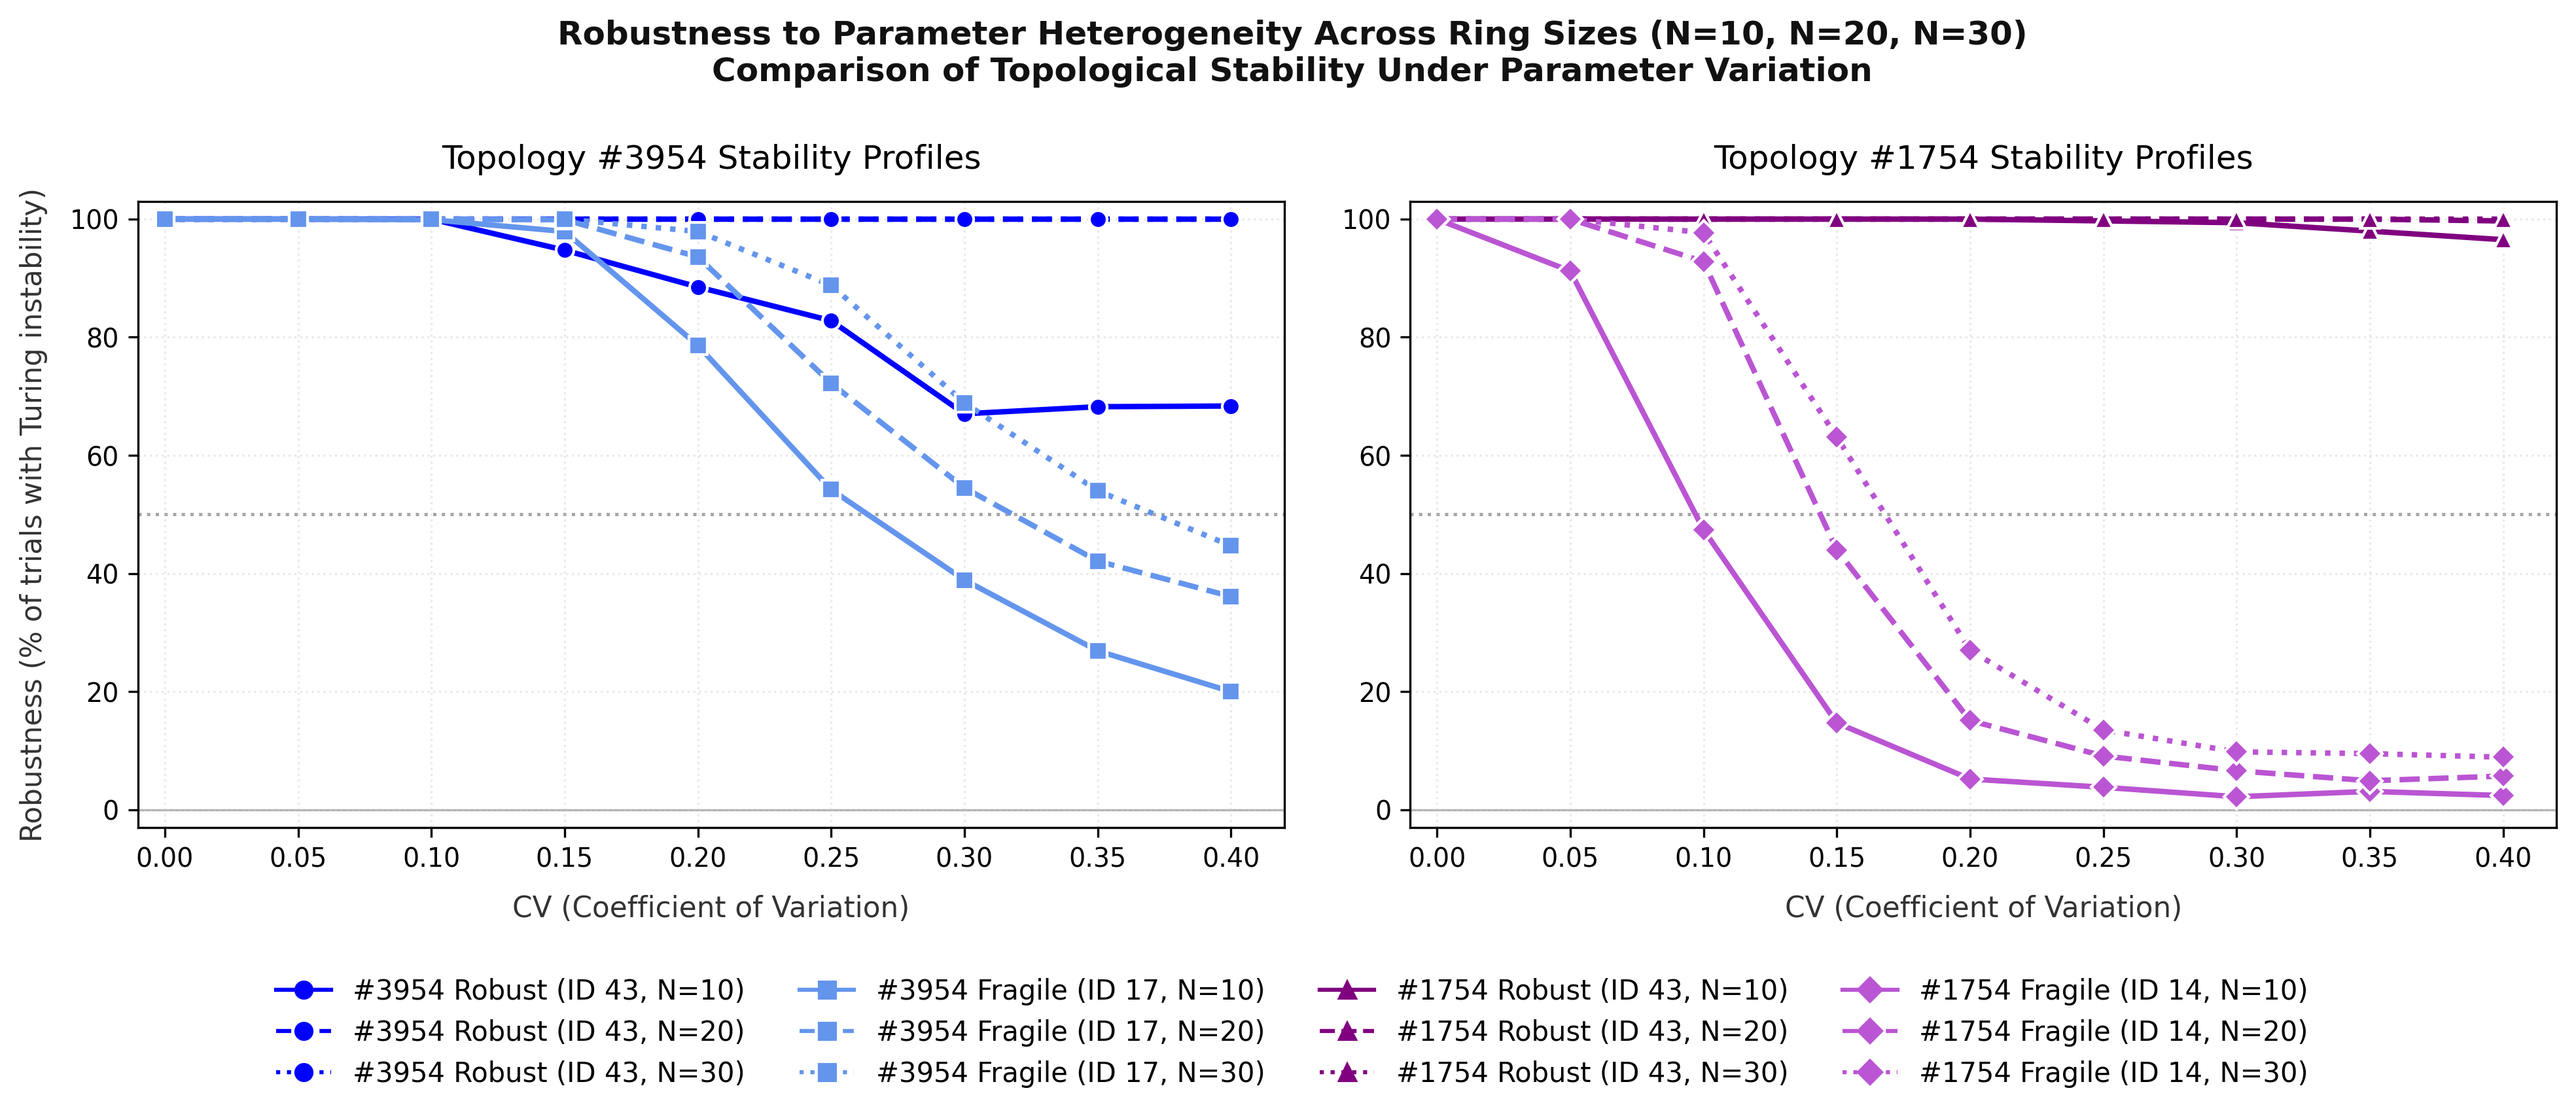
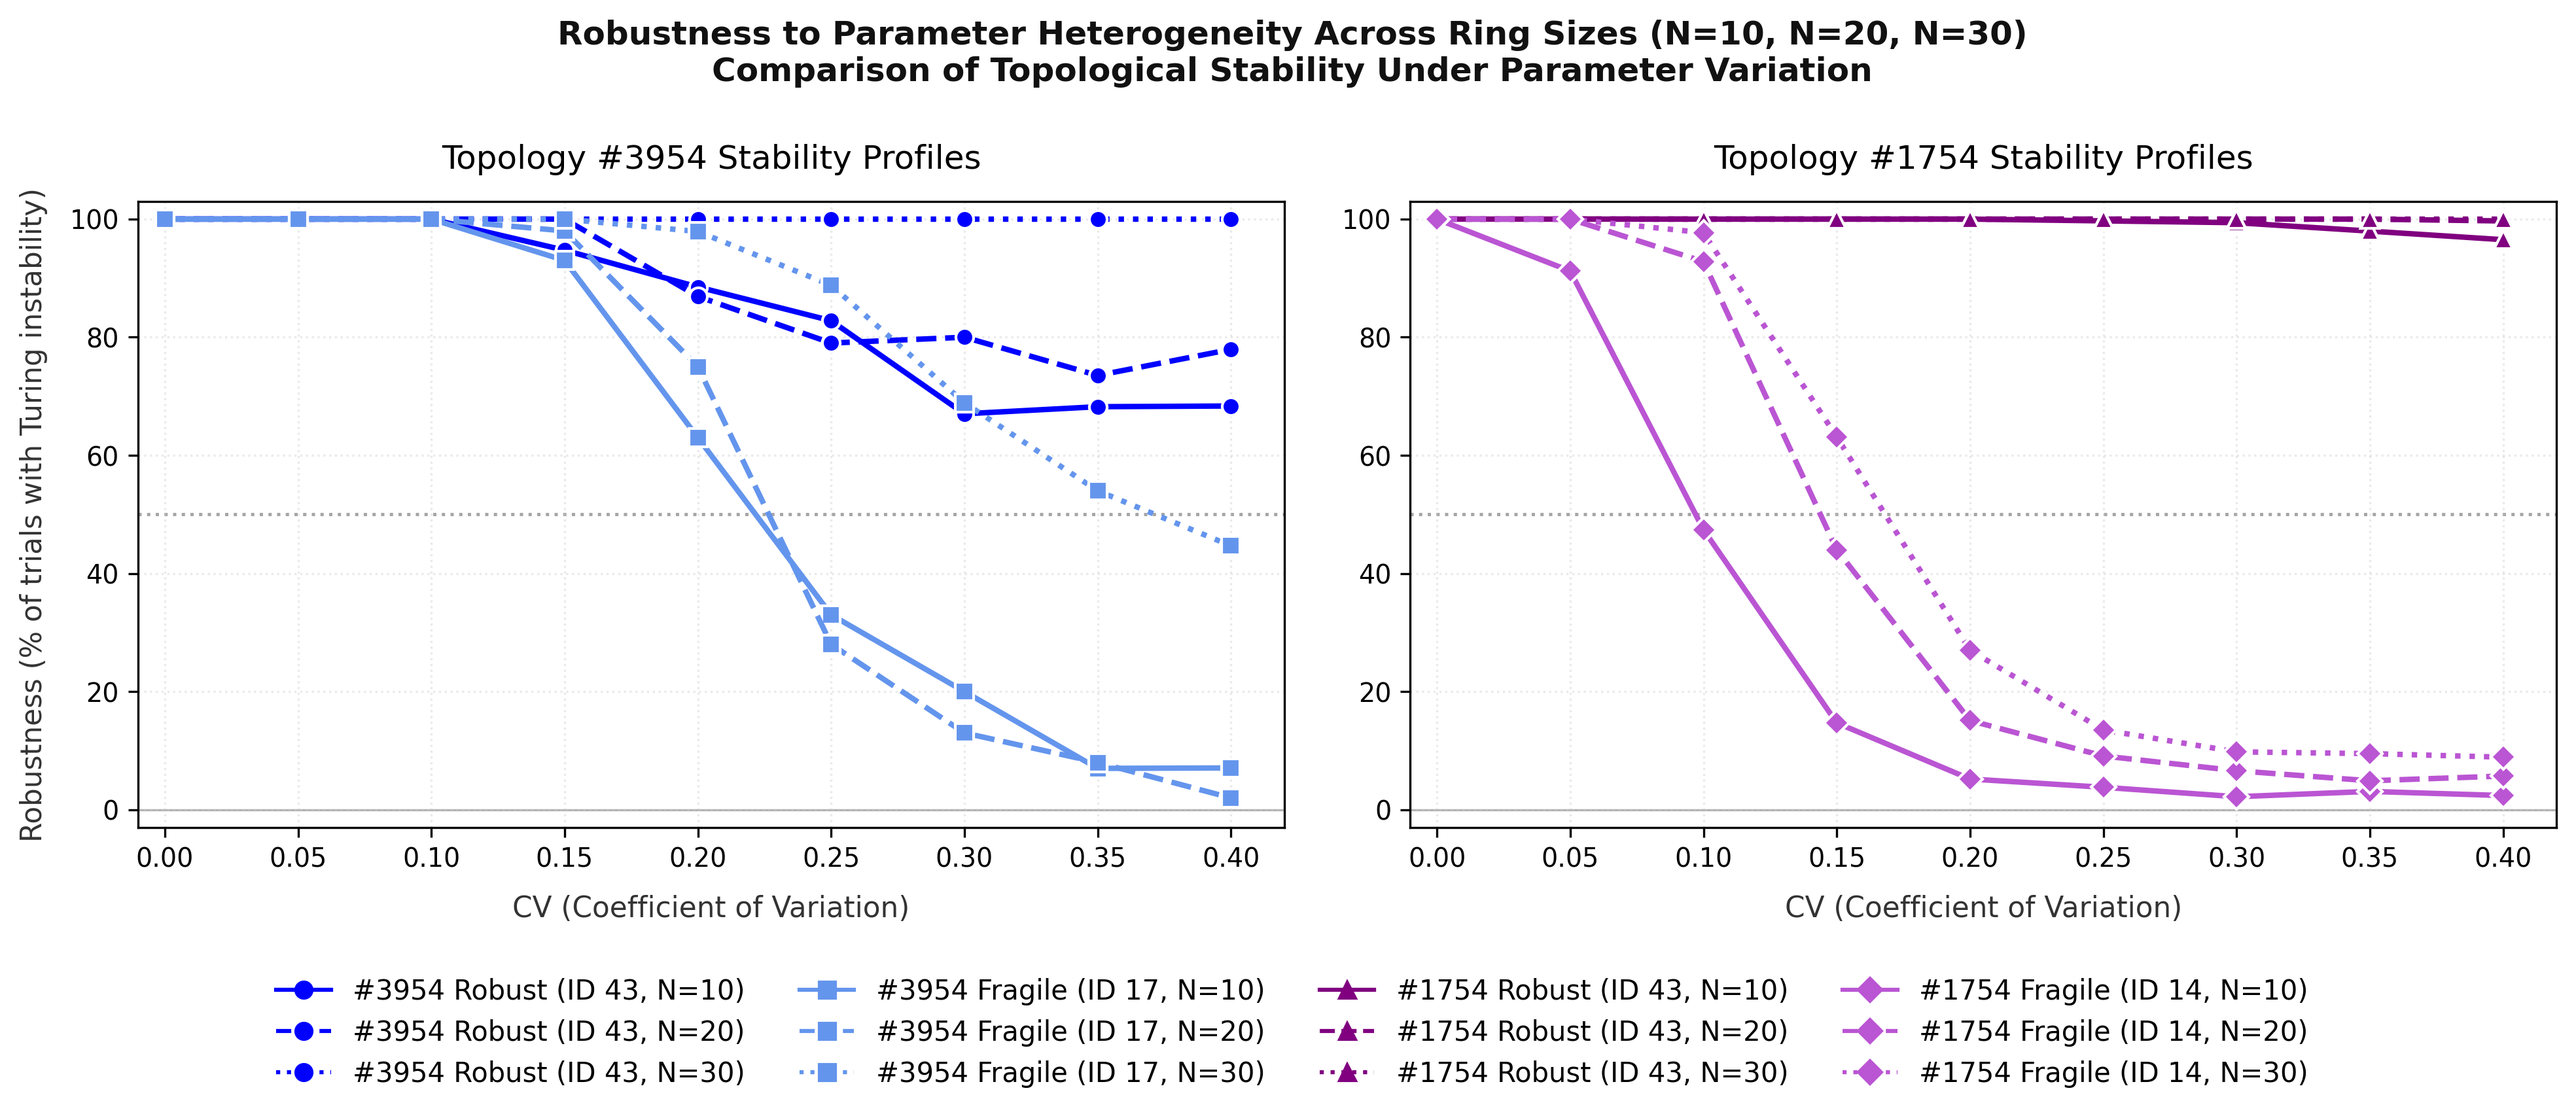
girl i dont even

diff --git a/BiologicalRealism/plots.py b/BiologicalRealism/plots.py
@@ -39,14 +39,14 @@ def diff_str(hopping):
 # LOADING ALL FILES
 with open('3954_cv_sweep_high_config49_N10.pkl', 'rb') as f: 
     cv_robust_3954_N10 = pickle.load(f)
-with open('pastconfigs/3954_cv_sweep_high_config43_N20.pkl', 'rb') as f:
+with open('3954_cv_sweep_high_config49_N20.pkl', 'rb') as f:
     cv_robust_3954_N20 = pickle.load(f)
 with open('pastconfigs/3954_cv_sweep_high_config43_N30.pkl', 'rb') as f:
     cv_robust_3954_N30 = pickle.load(f)
 
-with open('pastconfigs/3954_cv_sweep_low_config17_N10.pkl', 'rb') as f:
+with open('3954_cv_sweep_low_config21_N10.pkl', 'rb') as f:
     cv_fragile_3954_N10 = pickle.load(f)
-with open('pastconfigs/3954_cv_sweep_low_config17_N20.pkl', 'rb') as f:
+with open('3954_cv_sweep_low_config21_N20.pkl', 'rb') as f:
     cv_fragile_3954_N20 = pickle.load(f)
 with open('pastconfigs/3954_cv_sweep_low_config17_N30.pkl', 'rb') as f:
     cv_fragile_3954_N30 = pickle.load(f)

diff --git a/BiologicalRealism/heterogenous_ring_3954_finalhopefully.py b/BiologicalRealism/heterogenous_ring_3954_finalhopefully.py
@@ -217,9 +217,9 @@ if __name__ == "__main__":
 
     # ---- config selection ----
     CONFIG_TO_TEST = 21 #maybe 21 or 3 
-    CONFIG_LABEL = "high"   # "high" or "low" -- change when you switch configs
+    CONFIG_LABEL = "low"   # "high" or "low" -- change when you switch configs
     n_trials = 100
-    N_cells = 10
+    N_cells = 20
 
     # ---- load parameters ----
     df_file = pd.read_csv('../TopologyRanking/Topology3954/3954_FINAL_lhs_results_parameters.csv')
